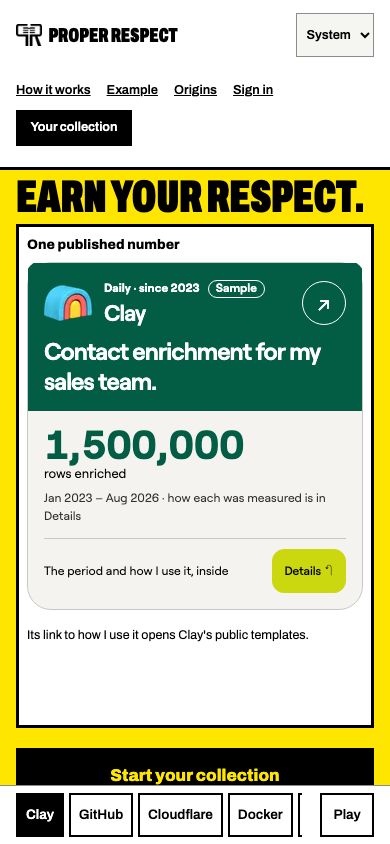
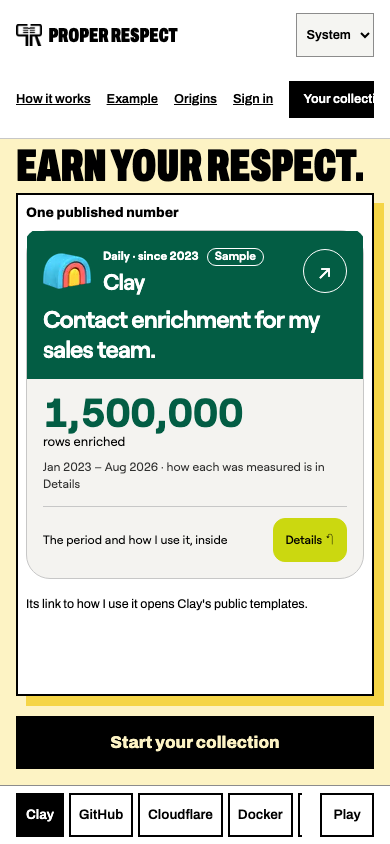
feat: soften the yellow, keep the header with the reader, add an About rail (#224)
Owner, 2026-11-16: the full yellow field was hard on the eyes, and the
header, footer and sidebar should feel current.

The first screen sits on a pale field, with the yellow kept for accents:
the card's offset edge, the quote's bar and the footer's line. In dark
appearance the field is near black and the headline is yellow.

The header stays at the top on a wide screen and lets the page show
through. Page changes cross-fade where the browser supports it and the
visitor allows motion. A phone's navigation is one row that scrolls
sideways instead of wrapping.

The About pages gain a rail listing all five, sticky on a wide screen
and a scrolling row on a phone. The footer is dark in both appearances
and pins its own inks.

diff --git a/app/globals.css b/app/globals.css
@@ -3,7 +3,9 @@
   --paper: #ffffff;
   --panel: #f5f5f2;
   --signal: #d8ff3e;
-  --poster: #ffe600;
+  --poster: #f5d547;
+  --poster-field: #fdf3c4;
+  --poster-ink: #000000;
   --respect-red: #d1004f;
   --focus-ring: #d1004f;
   --muted: #666666;
@@ -26,8 +28,10 @@
   --ink: #ffffff;
   --paper: #000000;
   --panel: #181818;
+  --poster-field: #1d1a0c;
+  --poster-ink: #f5d547;
   --respect-red: #ff5fa2;
-  --focus-ring: #ffe600;
+  --focus-ring: #f5d547;
   --muted: #b5b5b5;
   --line: rgba(255, 255, 255, 0.3);
   --input: #000000;
@@ -1735,8 +1739,15 @@ main {
 /* Proper Respect frames the experience; product-card owns its brand tokens. */
 .site-header, .site-footer {
   display: flex; align-items: center; justify-content: space-between; gap: 1rem;
-  padding: .8rem clamp(1rem, 4vw, 5rem); border-bottom: 3px solid var(--ink);
+  padding: .8rem clamp(1rem, 4vw, 5rem); border-bottom: 1px solid var(--line);
 }
+/* The header stays with the reader on a wide screen and lets the page show through it. */
+@media (min-width: 601px) {
+  .site-header { position: sticky; top: 0; z-index: 20; background: color-mix(in srgb, var(--paper) 88%, transparent); backdrop-filter: blur(14px) saturate(1.5); }
+  html { scroll-padding-top: 5.5rem; }
+}
+/* A page change cross-fades instead of flashing, where the browser supports it and the visitor allows motion. */
+@media (prefers-reduced-motion: no-preference) { @view-transition { navigation: auto; } }
 .site-wordmark { display: inline-flex; align-items: center; gap: .6rem; font-stretch: 62%; font-size: 1.5rem; font-weight: 900; line-height: 1; text-transform: uppercase; text-decoration: none; }
 .site-wordmark img { width: 32px; height: auto; }
 .site-navigation, .site-footer, .profile-context, .collection-navigation, .auth-intro figcaption { font-family: var(--homepage-sans), Arial, sans-serif; font-size: .9rem; font-weight: 600; line-height: 1.5; }
@@ -1745,7 +1756,10 @@ main {
 .site-start:hover { background: var(--respect-red); color: var(--action-text); }
 .auth-steps { padding-left: 1.3rem; line-height: 1.6; }
 .auth-steps li { padding: .6rem 0; }
-.site-footer { display: block; padding-block: clamp(2.5rem, 6vw, 5rem) 1.25rem; border-top: 3px solid var(--ink); border-bottom: 0; }
+/* The footer is the dark end of every page in both appearances, so it pins its own inks the way a card does. */
+.site-footer { --ink: #ffffff; --paper: #000000; --panel: #181818; --secondary: #b5b5b5; --muted: #b5b5b5; --line: rgba(255, 255, 255, 0.3); --control-line: #7a7a7a; --respect-red: #ff5fa2; --focus-ring: #f5d547; --action-text: #000000;
+  display: block; padding-block: clamp(2.5rem, 6vw, 5rem) 1.25rem; background: var(--paper); color: var(--ink); border: 0; }
+.site-footer-brand > p { color: var(--poster); }
 .site-footer-main { display: grid; grid-template-columns: minmax(0, 1fr) minmax(0, 1.5fr); gap: 3rem; }
 .site-footer-brand .site-wordmark { font-size: clamp(1.5rem, 2.4vw, 2rem); }
 .site-footer-brand .site-wordmark img { width: 48px; }
@@ -1790,7 +1804,7 @@ main {
 }
 @media (max-width: 600px) {
   .site-header { padding-block: .8rem; flex-wrap: wrap; }
-  .site-navigation { width: 100%; justify-content: flex-start; gap: .6rem 1rem; }
+  .site-navigation { width: 100%; justify-content: flex-start; gap: .6rem 1rem; flex-wrap: nowrap; overflow-x: auto; white-space: nowrap; scrollbar-width: none; }
   .site-wordmark { font-size: 1.25rem; gap: .4rem; }
   .site-wordmark img { width: 26px; }
   .site-navigation { font-size: .8rem; }

diff --git a/app/homepage.module.css b/app/homepage.module.css
@@ -1,4 +1,4 @@
-/* A show poster: one flat field of yellow, wood type set as narrow and heavy as the face goes, and the card as the act on the bill. */
+/* A show poster: one pale field, wood type set as narrow and heavy as the face goes, and the card as the act on the bill. */
 .homepage { font-family: var(--homepage-sans), Arial, sans-serif; color: var(--ink); background: var(--paper); }
 .homepage a { text-underline-offset: .22em; }
 .homepage a:focus-visible { outline: 3px solid var(--focus-ring); outline-offset: 4px; }
@@ -6,13 +6,12 @@
 
 .title, .statement { font-stretch: 62%; font-weight: 900; text-transform: uppercase; margin: 0; }
 
-/* The poster keeps its own inks in light and dark, like paper does. */
-.hero { --poster-ink: #000; background: var(--poster); color: var(--poster-ink); border-bottom: 3px solid var(--ink); padding: clamp(.75rem, 2vw, 1.75rem) clamp(1rem, 4vw, 5rem) clamp(2rem, 4vw, 4rem);
+.hero { background: var(--poster-field); color: var(--poster-ink); border-bottom: 1px solid var(--line); padding: clamp(.75rem, 2vw, 1.75rem) clamp(1rem, 4vw, 5rem) clamp(2rem, 4vw, 4rem);
   display: grid; grid-template-columns: minmax(0, 3fr) minmax(0, 1fr); grid-template-areas: "title title" "example side"; gap: clamp(.75rem, 1.6vw, 1.5rem) clamp(1.5rem, 3vw, 3rem); align-items: start; }
 .hero a:focus-visible, .hero :global(button:focus-visible) { outline-color: var(--poster-ink); }
 /* One line across the sheet at every width: eighteen characters of this face run about 7.6 times its size. */
 .title { grid-area: title; font-size: clamp(2rem, 11.6vw, 13rem); line-height: .84; letter-spacing: -.005em; white-space: nowrap; }
-.example { grid-area: example; min-width: 0; padding: clamp(.75rem, 1.6vw, 1.5rem); background: var(--example-panel); color: var(--ink); border: 3px solid var(--poster-ink); }
+.example { grid-area: example; min-width: 0; padding: clamp(.75rem, 1.6vw, 1.5rem); background: var(--example-panel); color: var(--ink); border: 2px solid var(--ink); box-shadow: 10px 10px 0 var(--poster); }
 .example :global(.product-card) { width: 100%; }
 .hero > .actions { grid-area: side; }
 
@@ -20,8 +19,9 @@
 .primary { display: inline-flex; justify-content: center; align-items: center; min-height: 52px; padding: .9rem 1.4rem; border: 3px solid var(--ink); background: var(--ink); color: var(--action-text); font-weight: 800; font-size: 1.05rem; text-decoration: none; }
 /* The accent is dark on a light page and light on a dark one, so the label follows the theme with it. */
 .primary:hover { background: var(--respect-red); border-color: var(--respect-red); color: var(--action-text); }
-.hero .primary { background: var(--poster-ink); border-color: var(--poster-ink); color: var(--poster); }
-.hero .primary:hover { background: var(--poster); color: var(--poster-ink); }
+.hero .primary { background: var(--poster-ink); border-color: var(--poster-ink); color: var(--poster-field); }
+.hero .primary:hover { background: transparent; color: var(--poster-ink); }
+.hero .secondary { color: var(--poster-ink); }
 .secondary { font-size: .95rem; font-weight: 600; line-height: 1.5; padding-block: .35rem; }
 
 .journey, .close { padding: clamp(3rem, 7vw, 7rem) clamp(1rem, 4vw, 5rem); }

diff --git a/components/trust-article.module.css b/components/trust-article.module.css
@@ -1,12 +1,92 @@
+/* A rail of the About pages beside the article; on a narrow screen it is one row above it that scrolls sideways. */
 .shell {
-  max-width: 78rem;
+  display: grid;
+  grid-template-columns: 13rem minmax(0, 1fr);
+  gap: clamp(2rem, 5vw, 5rem);
+  max-width: 82rem;
   margin: 0 auto;
-  padding: clamp(3rem, 7vw, 7rem) clamp(1.25rem, 5vw, 5rem);
+  padding: clamp(2rem, 5vw, 5rem) clamp(1rem, 4vw, 5rem) clamp(3rem, 7vw, 7rem);
   color: var(--ink);
 }
 
 .shell article {
-  max-width: 70ch;
+  min-width: 0;
+  max-width: 46rem;
+}
+
+.rail {
+  position: sticky;
+  top: 6rem;
+  align-self: start;
+}
+
+.rail ul {
+  list-style: none;
+  margin: 0;
+  padding: 0;
+  border-left: 1px solid var(--line);
+}
+
+.shell .rail li {
+  font-size: 0.95rem;
+  line-height: 1.3;
+}
+
+.rail a {
+  display: flex;
+  align-items: center;
+  min-height: 44px;
+  margin-left: -1px;
+  padding: 0 1rem;
+  border-left: 3px solid transparent;
+  color: var(--secondary);
+  font-weight: 600;
+  text-decoration: none;
+}
+
+.rail a:hover {
+  color: var(--ink);
+}
+
+.rail a[aria-current="page"] {
+  border-left-color: var(--poster);
+  color: var(--ink);
+}
+
+.rail a:focus-visible {
+  outline: 3px solid var(--focus-ring);
+  outline-offset: -3px;
+}
+
+@media (max-width: 800px) {
+  .shell {
+    grid-template-columns: minmax(0, 1fr);
+    gap: 1.5rem;
+  }
+
+  .rail {
+    position: static;
+    overflow-x: auto;
+    scrollbar-width: none;
+  }
+
+  .rail ul {
+    display: flex;
+    border-left: 0;
+    border-bottom: 1px solid var(--line);
+  }
+
+  .rail a {
+    margin: 0 0 -1px;
+    padding: 0 0.9rem;
+    border-left: 0;
+    border-bottom: 3px solid transparent;
+    white-space: nowrap;
+  }
+
+  .rail a[aria-current="page"] {
+    border-bottom-color: var(--poster);
+  }
 }
 
 .shell h1 {
@@ -19,17 +99,17 @@
   overflow-wrap: anywhere;
 }
 
-/* The poster's yellow and black in light and dark, like the homepage's first screen. */
+/* The same pale field and ink as the homepage's first screen, in light and dark. */
 .pullQuote {
-  background: var(--poster);
-  color: #000;
-  border: 3px solid var(--ink);
+  background: var(--poster-field);
+  color: var(--poster-ink);
+  border-left: 8px solid var(--poster);
   margin: 0 0 clamp(2rem, 5vw, 4rem);
   padding: clamp(1.25rem, 3vw, 2.5rem);
 }
 
 .pullQuote blockquote {
-  font-size: clamp(2.2rem, 6.4vw, 6rem);
+  font-size: clamp(2rem, 5vw, 4.5rem);
   font-stretch: 62%;
   font-weight: 900;
   line-height: 0.9;

diff --git a/components/trust-article.tsx b/components/trust-article.tsx
@@ -1,12 +1,18 @@
 import Link from "next/link";
-import type { TrustDocument } from "@/src/server/trust-pages";
+import { trustDocuments, type TrustDocument, type TrustSlug } from "@/src/server/trust-pages";
 import styles from "./trust-article.module.css";
+
+/** The About pages by the names the footer gives them, in the order the rail lists them. */
+const RAIL: Readonly<Record<TrustSlug, string>> = { origins: "Origins", methodology: "How evidence works", privacy: "Privacy", terms: "Terms", contact: "Contact" };
 
 /** `pullQuote` repeats a line the document already quotes, set large above it. */
 export function TrustArticle({ document, pullQuote }: { document: TrustDocument; pullQuote?: Readonly<{ text: string; source: string }> }) {
   return <main className={styles.shell}>
-    {pullQuote && <figure className={styles.pullQuote}><blockquote>{pullQuote.text}</blockquote><figcaption>{pullQuote.source}</figcaption></figure>}
+    <nav className={styles.rail} aria-label="About Proper Respect">
+      <ul>{(Object.keys(RAIL) as TrustSlug[]).map(slug => <li key={slug}><Link href={`/about/${slug}`} aria-current={trustDocuments[slug] === document ? "page" : undefined}>{RAIL[slug]}</Link></li>)}</ul>
+    </nav>
     <article>
+      {pullQuote && <figure className={styles.pullQuote}><blockquote>{pullQuote.text}</blockquote><figcaption>{pullQuote.source}</figcaption></figure>}
       <header>
         <p className="eyebrow">{document.eyebrow}</p>
         <h1>{document.title}</h1>

diff --git a/docs/verification/2026-11-16-earn-your-respect-revamp/README.md b/docs/verification/2026-11-16-earn-your-respect-revamp/README.md
@@ -15,11 +15,14 @@ All data here is synthetic: homepage sample cards and the fixture profile in ref
 | File | What it shows |
 | --- | --- |
 | `before-home-1440.png` | The homepage on `9eb44a6`, full page. |
-| `after-home-1440.png` | The homepage after, full page. Captured before the owner asked, the same day, to keep the Aretha Franklin quote on Origins only; the props section no longer shows it. |
-| `after-home-390-first-screen.png` | A phone's first screen after. |
+| `after-home-1440-first-screen.png` | The homepage's first screen after the owner's second round the same day: a pale field in place of full yellow, and a header that stays with the reader. |
+| `after-home-390-first-screen.png` | A phone's first screen. |
 | `after-home-1440-dark-first-screen.png` | The first screen in dark appearance. |
+| `after-footer-1440.png` | The dark footer and the header over a scrolled page. |
 | `before-origins-1440.png` | Origins on `9eb44a6`. |
-| `after-origins-1440.png` | Origins after. |
+| `after-origins-1440-first-screen.png` | Origins with its rail of About pages and the quote. |
+
+The measurements under Targets were taken on the first round. The second round changed colours, the header and the About rail, and the browser specs for those pages passed again after it (174 tests across eight spec files; one theme test failed once and passed on three repeats).
 
 ## Targets
 
